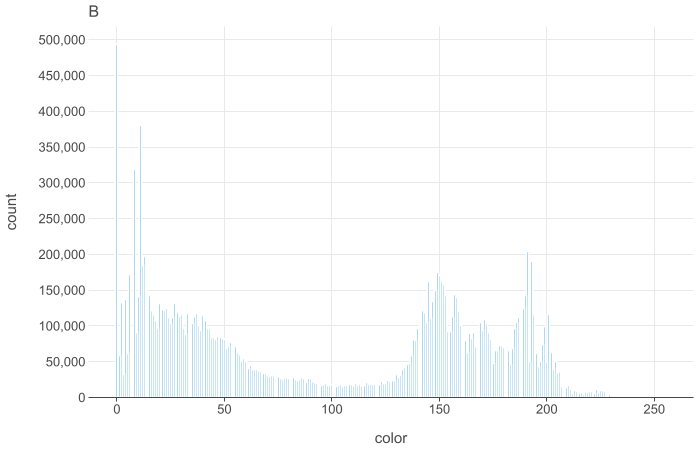
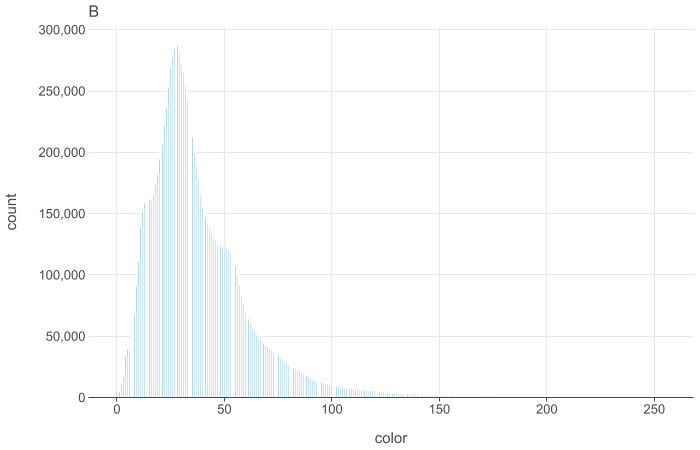
Fixes

diff --git a/src/main/kotlin/labs/lab2/Task.kt b/src/main/kotlin/labs/lab2/Task.kt
@@ -49,7 +49,7 @@ fun main() {
     println("Entropy for discretized image with 4 levels and quantized with 64 levels = $d4q64Entropy")
 
     val restored2 = restoreImage(discretized2, 2).write("r2")
-    val restored4 = restoreImage(discretized2, 4).write("r4")
+    val restored4 = restoreImage(discretized4, 4).write("r4")
 
     val kullbackQ8 = kullbackLeiblerDivergence(grayscale, quantized8Levels)
     val kullbackQ16 = kullbackLeiblerDivergence(grayscale, quantized16Levels)
@@ -116,9 +116,9 @@ private fun quantize(image: BufferedImage, level: Int): BufferedImage {
 }
 
 private fun quantizeColor(color: Int, level: Int): Int {
-    val b = quantizeValue(color and 0xFF, level)
-    val g = quantizeValue((color shr 8) and 0xFF, level)
-    val r = quantizeValue((color shr 16) and 0xFF, level)
+    val b = quantizeValue(color and 0xFF, 256 / level)
+    val g = quantizeValue((color shr 8) and 0xFF, 256 / level)
+    val r = quantizeValue((color shr 16) and 0xFF, 256 / level)
     val a = color and 0xFF000000.toInt()
     return a or (r shl 16) or (g shl 8) or b
 }
@@ -138,7 +138,7 @@ private fun kullbackLeiblerDivergence(orig: BufferedImage, copy: BufferedImage):
     repeat(min(origBrightness.size, copyBrightness.size)) {
         if (origBrightness[it] <= 0) return@repeat
         if (copyBrightness[it] <= 0) return@repeat
-        d += origBrightness[it] * log2(origBrightness[it] / copyBrightness[it])
+        d += copyBrightness[it] * log2(copyBrightness[it] / origBrightness[it])
     }
     return d
 }

diff --git a/src/main/kotlin/labs/lab3/HuffmanEncoding.kt b/src/main/kotlin/labs/lab3/HuffmanEncoding.kt
@@ -22,6 +22,18 @@ object HuffmanEncoding {
         return nodes[0]
     }
 
+    fun createTree(bytes: ByteArray, frequency: DoubleArray): HuffmanTreeNode {
+        val nodes = bytes.groupBy { it }.map { HuffmanTreeNode(it.key, (frequency[it.key.toInt()] * 100).toInt(), null, null) }.toMutableList()
+        while (nodes.size > 1) {
+            nodes.sortBy { it.frequency }
+            val left = nodes.removeFirst()
+            val right = nodes.removeFirst()
+            val node = HuffmanTreeNode(left, right)
+            nodes.add(node)
+        }
+        return nodes[0]
+    }
+
     fun createCodesMap(bytes: ByteArray): Map<Byte, String> {
         return createCodesMap(createTree(bytes))
     }

diff --git a/src/main/kotlin/labs/lab3/EncodingTools.kt b/src/main/kotlin/labs/lab3/EncodingTools.kt
@@ -7,6 +7,12 @@ object EncodingTools {
         return builder.toString()
     }
 
+    fun encodeToString(msg: ByteArray, map: Map<Byte, String>): String {
+        val builder = StringBuilder()
+        msg.forEach { builder.append(map[it]) }
+        return builder.toString()
+    }
+
     fun decodeToString(msg: String, map: Map<Byte, String>): String {
         val codeToByte = map.map { it.value to it.key }.toMap()
         val builder = StringBuilder()

diff --git a/src/main/kotlin/labs/lab1/Task2.kt b/src/main/kotlin/labs/lab1/Task2.kt
@@ -1,11 +1,11 @@
 package labs.lab1
 
-import java.util.stream.IntStream
 import kotlin.random.Random
 
 fun main() {
-    val random = Random(13)
+    val random = Random(System.currentTimeMillis())
     val count = random.nextInt(11, 20)
     val list = Array(count) { random.nextInt(1, 10) / count.toDouble() }.toList()
+    list.forEach { println(it) }
     println(ShannonEntropy.calculate(list))
 }
